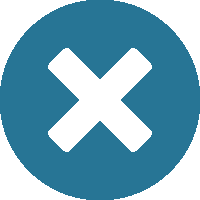
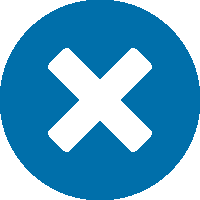
reworked stle color and chapter list screen

diff --git a/src/screen/ChapterListScreen.js b/src/screen/ChapterListScreen.js
@@ -7,7 +7,7 @@ import PropTypes from 'prop-types';
 import { connect } from 'react-redux';
 import ChapterListItem from '../component/ChapterListItem';
 import { loadChapters } from '../store/manga.action';
-import { primaryColor, secondaryColor } from '../colors';
+import { primaryColor, secondaryColor, tertiaryColor } from '../colors';
 import FilterButton from '../component/FilterButton';
 import { deviceSize} from '../size';
 
@@ -16,6 +16,11 @@ export class ChapterListScreen extends React.Component {
   static navigationOptions = ({ navigation }) => {
     return {
       title: navigation.getParam('manga', 'none'),
+      headerTitleStyle: {
+        color: tertiaryColor,
+        fontSize: 22,
+        fontWeight: 'bold',
+      },
       headerRight: <FilterButton/>,
       headerStyle: { backgroundColor: secondaryColor },
     };
@@ -60,6 +65,15 @@ export class ChapterListScreen extends React.Component {
     return true;
   }
 
+  isChapterAtTop(index, numColumns) {
+    return (index < numColumns);
+  }
+
+  isChapterAtBottom(index, numColumns, dataLength) {
+    const diffColumns = dataLength % numColumns;
+    return (index >= (dataLength - ((diffColumns !== 0)?diffColumns:numColumns)));
+  }
+
   render() {
     if (this.props.chaptersLoading) {
       return (
@@ -94,7 +108,8 @@ export class ChapterListScreen extends React.Component {
             return (
               <ChapterListItem 
                 manga={this.state.manga} chapter={item}
-                index={index} numColumns={3}
+                isTop={this.isChapterAtTop(index, 3)}
+                isBottom={this.isChapterAtBottom(index, 3, this.props.chapters.length)}
                 navigation={this.props.navigation}
               />
             )

diff --git a/src/component/ChapterListItem.js b/src/component/ChapterListItem.js
@@ -4,7 +4,7 @@ import PropTypes from 'prop-types';
 import { connect } from 'react-redux';
 import { TouchableOpacity } from 'react-native-gesture-handler';
 
-import { primaryColor, secondaryColor, tertiaryColor } from '../colors';
+import { primaryColor, secondaryColor, tertiaryColor, isChapterReadColor } from '../colors';
 import { markChapterAsRead } from "../store/manga.action";
 import { deviceSize} from '../size';
 
@@ -37,8 +37,9 @@ export class ChapterListItem extends React.Component {
       <TouchableOpacity onPress={this.onPressItem} onLongPress={this.onLongPressItem} delayLongPress={500}>
         <View style={{
           ...styles.chapterItemView,
-          backgroundColor: (this.props.chapter.isChapterRead) ? secondaryColor : primaryColor,
-          marginTop: (this.props.index < this.props.numColumns) ? 10 : 0,
+          backgroundColor: (this.props.chapter.isChapterRead) ? isChapterReadColor : primaryColor,
+          marginTop: (this.props.isTop) ? 10 : 2,
+          marginBottom: (this.props.isBottom) ? 10 : 2,
         }}>
           <Text
             style={{
@@ -64,7 +65,8 @@ const styles = StyleSheet.create({
     borderWidth: 3,
     borderColor: tertiaryColor,
     padding: 2,
-    margin:2,
+    marginStart:2,
+    marginEnd:2,
   },
   chapterItemText: {
     fontSize: 18,

diff --git a/src/screen/HomeScreen.js b/src/screen/HomeScreen.js
@@ -20,6 +20,11 @@ class HomeScreen extends Component {
 
   static navigationOptions = ({ navigation }) => ({
     headerTitle: 'Manga list',
+    headerTitleStyle: {
+      color: tertiaryColor,
+      fontSize: 22,
+      fontWeight: 'bold',
+    },
     headerLeft: <LogoutButton navigation={navigation}/>,
     headerStyle: { backgroundColor: secondaryColor },
   });
@@ -101,13 +106,12 @@ class HomeScreen extends Component {
     }
     return (
       <View style={{ flex: 1, backgroundColor: primaryColor }}>
-        <View style={{ height: 1, width: deviceSize.deviceWidth, backgroundColor: tertiaryColor }}/>
         <SearchBar
           onSearchChange={this.onSearchChange}
           onCancelSearch={this.onCancelSearch}
           value={this.state.search}
         />
-        <View style={{ height: 1, width: deviceSize.deviceWidth, backgroundColor: tertiaryColor }}/>
+        <View style={{ height: 2, width: deviceSize.deviceWidth, backgroundColor: tertiaryColor }}/>
         <SectionList
           extraData={this.props.mangasListNeedRefresh}
           renderSectionHeader={({section: {title}}) => (

diff --git a/src/screen/ReadingChapterScreen.js b/src/screen/ReadingChapterScreen.js
@@ -24,6 +24,11 @@ export class ReadingChapterScreen extends React.Component {
   static navigationOptions = ({ navigation }) => {
     return {
       title: 'Chapter ' + navigation.getParam('chapter', 'none').number,
+      headerTitleStyle: {
+        color: tertiaryColor,
+        fontSize: 22,
+        fontWeight: 'bold',
+      },
       headerStyle: { backgroundColor: secondaryColor },
     };
   };

diff --git a/src/colors/index.js b/src/colors/index.js
@@ -1,3 +1,4 @@
-export const primaryColor = '#F5FCFF';
-export const secondaryColor = '#38A8D5';
-export const tertiaryColor = '#277595';
+export const primaryColor = '#ffffff';
+export const secondaryColor = '#F4A018';
+export const tertiaryColor = '#006FAA';
+export const isChapterReadColor = '#22A3D6';

diff --git a/src/component/MangaListSectionTitleView.js b/src/component/MangaListSectionTitleView.js
@@ -32,7 +32,7 @@ const styles = StyleSheet.create({
   sectionTitleText: {
     width: deviceSize.deviceWidth * 0.40,
     textAlign: 'center',
-    fontSize: 22,
+    fontSize: 20,
     fontWeight: 'bold',
     marginStart: 5,
     marginEnd: 5,

diff --git a/src/component/MangaListItem.js b/src/component/MangaListItem.js
@@ -75,7 +75,7 @@ const styles = StyleSheet.create({
     width: deviceSize.deviceWidth * 0.15,
   },
   mangaText: {
-    fontSize: 21,
+    fontSize: 20,
     fontWeight: 'bold',
     paddingStart: 10,
     color: tertiaryColor,
